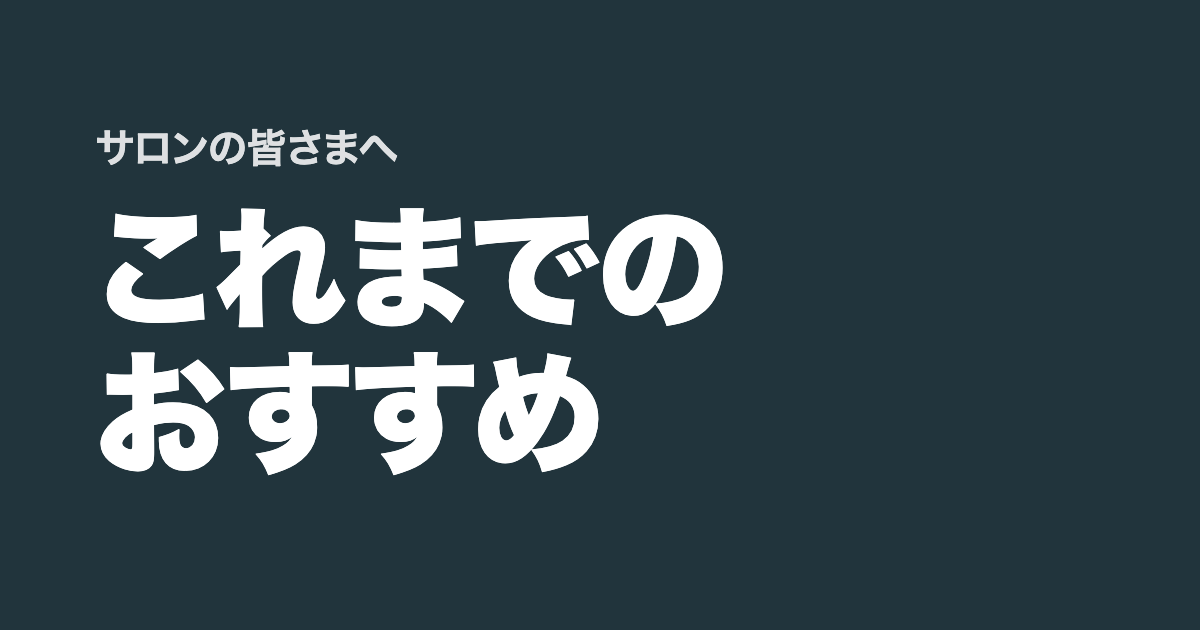
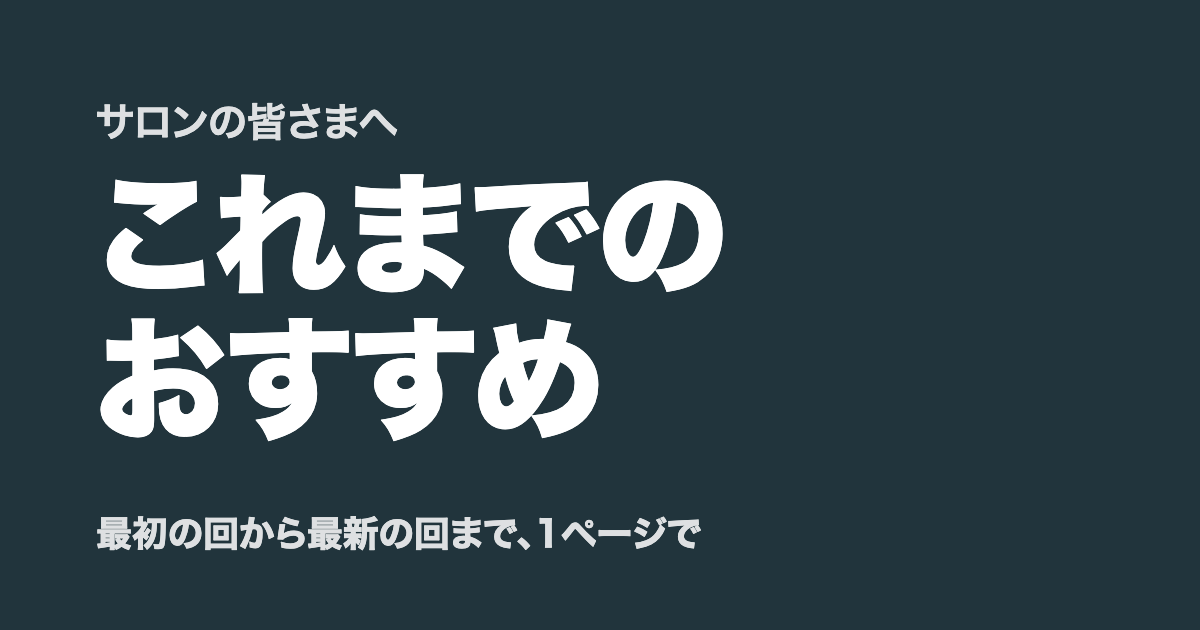
これまでのおすすめ：冒頭の意図・棚を表紙の縮小に・最新回を届いた順に

Changed region(s): [[0.0617, 0.1508, 0.6167, 0.754], [0.0617, 0.8143, 0.5858, 0.8746]]

diff --git a/osusume/index.html b/osusume/index.html
@@ -18,72 +18,85 @@
 html{background:var(--ground);color-scheme:light;scroll-behavior:smooth}
 @media (prefers-reduced-motion:reduce){html{scroll-behavior:auto}}
 body{word-break:auto-phrase;text-wrap:pretty;font-family:"Hiragino Sans","Hiragino Kaku Gothic ProN","Noto Sans JP",sans-serif;color:var(--ink);background:var(--ground);
- font-feature-settings:"palt";line-break:strict;-webkit-font-smoothing:antialiased;-webkit-text-size-adjust:100%}
+ font-size:15px;line-height:1.75;font-feature-settings:"palt";line-break:strict;-webkit-font-smoothing:antialiased;-webkit-text-size-adjust:100%}
+/* 字の段は6つ：13・15・17・24・44・104（11/21 世界的デザイナー） */
 .fb{font-family:Futura,"Futura PT",Jost,"Avenir Next",sans-serif;font-weight:700}
 .wrap{max-width:560px;margin:0 auto}
 .ln{display:block}
+.nw{white-space:nowrap}
 .vh{position:absolute;width:1px;height:1px;overflow:hidden;clip:rect(0 0 0 0);white-space:nowrap}
-header{background:var(--band);color:#fff;padding:28px 20px 28px}
+header{background:var(--band);color:#fff;padding:20px 20px 22px}
 header .to{font-size:15px;font-weight:600;letter-spacing:.04em;opacity:.85}
-header h1{font-size:44px;line-height:1.12;font-weight:800;letter-spacing:.01em;margin-top:10px}
-header .now{margin-top:22px;padding-top:18px;border-top:2px solid rgba(255,255,255,.28)}
-header .now b{display:block;font-size:18px;line-height:1.5;font-weight:800}
-header .now span{display:block;font-size:14px;line-height:1.6;opacity:.8;margin-top:4px}
-.shelf{display:flex;gap:12px;overflow-x:auto;padding:22px 20px 10px;scroll-snap-type:x mandatory;-webkit-overflow-scrolling:touch;scroll-padding-left:20px}
-.tl{flex:none;width:38%;text-decoration:none;color:var(--ink);scroll-snap-align:start;border:2px solid var(--band)}
-.tl.new{width:52%;border-color:var(--mark)}
-.tb{display:flex;align-items:flex-end;justify-content:space-between;background:var(--band);color:#fff;padding:8px 8px 6px 9px}
-.tl.new .tb{background:var(--mark)}
-.tbr{font-size:10.5px;font-weight:800;line-height:1.3;padding-bottom:4px}
-.tbn{font-size:40px;line-height:.86}
-.tl.new .tbn{font-size:56px}
-.td{display:block;font-size:13px;color:var(--sub);padding:8px 9px 0}
-.tt{display:block;font-size:13px;line-height:1.45;font-weight:800;padding:2px 9px 10px}
-.tl.new .tt{font-size:15.5px}
-.shelfnote{font-size:13px;color:var(--sub);padding:2px 20px 0}
-.issue{padding:44px 20px 8px}
+header h1{font-size:44px;line-height:1.12;font-weight:800;letter-spacing:.01em;margin-top:6px}
+header .now{margin-top:16px;padding-top:12px;border-top:2px solid rgba(255,255,255,.28);font-size:17px;line-height:1.5;font-weight:800}
+.intro{padding:20px 20px 0}
+.intro p+p{margin-top:10px}
+.intro b{font-weight:800}
+.shelf{display:flex;gap:12px;overflow-x:auto;padding:20px 20px 8px;scroll-snap-type:x mandatory;-webkit-overflow-scrolling:touch;scroll-padding-left:20px}
+.tl{flex:none;width:38%;text-decoration:none;color:var(--ink);scroll-snap-align:start}
+.tl.new{width:52%}
+.tl img{display:block;width:100%;height:auto;border:1px solid var(--panel)}
+.tl.new img{outline:3px solid var(--mark);outline-offset:-3px;border-color:var(--mark)}
+.tm{display:flex;align-items:baseline;gap:10px;margin-top:8px}
+.tn{font-size:24px;line-height:1;color:var(--band)}
+.tl.new .tn{color:var(--mark)}
+.td{font-size:13px;color:var(--sub)}
+.tt{display:block;font-size:13px;line-height:1.5;font-weight:800;margin-top:4px}
+.tl.new .tt{font-size:15px}
+.shelfnote{font-size:13px;color:var(--sub);padding:0 20px}
+.idx{list-style:none;margin:14px 20px 0;border-top:1px solid var(--panel)}
+.idx a{display:flex;gap:14px;align-items:baseline;padding:10px 0;border-bottom:1px solid var(--panel);color:var(--ink);text-decoration:none;font-size:13px}
+.idx .fb{color:var(--sub)}
+.yr{font-size:13px;letter-spacing:.2em;color:var(--sub);padding:40px 20px 0;border-bottom:1px solid var(--panel);margin:0 20px;padding-left:0;padding-bottom:6px}
+.issue{padding:36px 20px 8px}
 .head{display:flex;align-items:flex-end;gap:14px}
 .no{font-size:104px;line-height:.82;color:var(--band);letter-spacing:-.02em}
 .issue.new .no{color:var(--mark)}
 .meta{display:flex;flex-direction:column;gap:4px;padding-bottom:4px}
-.meta .d{font-size:20px;color:var(--sub)}
+.meta .d{font-size:17px;color:var(--sub)}
 .meta b{font-size:15px;font-weight:800}
-.what{font-size:15px;line-height:1.75;margin-top:14px}
-.old{font-size:13.5px;line-height:1.7;color:var(--sub);margin-top:8px}
-.imgs{margin:18px -20px 0}
-.imgs img{display:block;width:100%;height:auto}
-.imgs img+img{margin-top:10px}
-.issue h3{font-size:17px;font-weight:800;margin-top:24px}
-.issue ul{margin:10px 0 0 1.2em;font-size:15px;line-height:1.8}
-.issue li+li{margin-top:6px}
-.rei{background:var(--panel);margin:20px -20px 0;padding:20px}
+.what{margin-top:14px}
+.old{font-size:13px;line-height:1.7;color:var(--sub);margin-top:8px}
+.imgs{margin:28px 0 0}
+.imgs figcaption{font-size:13px;color:var(--sub);margin-bottom:8px}
+.imgs img{display:block;width:100%;height:auto;border:1px solid var(--panel)}
+.imgs img+img{margin-top:12px}
+.issue h3{font-size:17px;font-weight:800;margin-top:28px}
+.uses{list-style:none;margin-top:8px;border-bottom:1px solid var(--panel)}
+.uses li{padding:12px 0;border-top:1px solid var(--panel)}
+.rei{background:var(--panel);margin:24px -20px 0;padding:20px}
 .reih{font-size:15px;font-weight:800;margin-top:14px}
-.rei .reih{margin-top:0}
-.reit{font-size:15px;line-height:1.85;margin-top:10px}
-.nw{white-space:nowrap}
-.copy{display:block;width:100%;margin-top:16px;padding:15px;border:0;background:var(--band);color:#fff;font:inherit;font-size:16px;font-weight:800;cursor:pointer}
+.rei .reih{font-size:17px;margin-top:0}
+.reis{font-size:13px;color:var(--sub)}
+.reit{line-height:1.85;margin-top:10px}
+.copy{display:block;width:100%;margin-top:16px;padding:15px;border:0;background:var(--band);color:#fff;font:inherit;font-size:17px;font-weight:800;cursor:pointer}
 .copy.done{background:var(--mark)}
-.next{font-size:14px;line-height:1.7;margin-top:10px;font-weight:600}
-details.more{margin-top:20px;border-top:2px solid var(--band);border-bottom:2px solid var(--band)}
-details.more summary{font-size:16px;font-weight:800;padding:14px 0;cursor:pointer;list-style-position:inside}
+.next{margin-top:10px;font-weight:600}
+details.more{margin-top:24px;border-top:2px solid var(--band);border-bottom:2px solid var(--band)}
+details.more summary{display:flex;justify-content:space-between;align-items:center;font-size:17px;font-weight:800;padding:14px 0;cursor:pointer;list-style:none}
+details.more summary::-webkit-details-marker{display:none}
+details.more summary::after{content:"+";font-family:Futura,"Futura PT",Jost,sans-serif;font-weight:700;font-size:24px;line-height:1;color:var(--band)}
+details.more[open] summary::after{content:"\2212"}
 details.more[open]{padding-bottom:16px}
-.back{margin-top:22px;font-size:15px}
+details.more .uses{margin-top:0}
+.back{margin-top:22px}
 .back a{color:var(--band);font-weight:800;text-underline-offset:4px}
-.copy:focus-visible,.tl:focus-visible,summary:focus-visible,.back a:focus-visible{outline:3px solid var(--mark);outline-offset:3px}
+.copy:focus-visible,.tl:focus-visible,summary:focus-visible,.back a:focus-visible,.idx a:focus-visible{outline:3px solid var(--mark);outline-offset:3px}
 .help{padding:48px 20px 20px}
 .help h2{font-size:24px;font-weight:800}
 .help dl{margin-top:14px}
-.help dt{font-size:15px;font-weight:800;margin-top:16px}
-.help dd{font-size:15px;line-height:1.75;margin-top:2px}
-footer{padding:26px 20px 64px;font-size:15px;line-height:1.8}
+.help dt{font-weight:800;margin-top:16px}
+.help dd{margin-top:2px}
+footer{padding:26px 20px 64px}
 footer .by{font-size:13px;color:var(--sub);margin-top:14px}
 </style></head><body><div class="wrap">
 <header><p class="to">サロンの皆さまへ</p><h1><span class="ln">これまでの</span><span class="ln">おすすめ</span></h1>
-<p class="now"><b><span class="ln">11/20から、クーポンは</span><span class="ln">全カテゴリーに使えます。</span></b><span>第1回・第2回は当時の書き方です。</span></p></header>
-<nav class="shelf" id="shelf" aria-label="回の一覧"><a class="tl new" href="#no3"><span class="tb"><span class="tbr">今週のおすすめ</span><span class="tbn fb">03</span></span><span class="td fb">11.20</span><span class="tt"><span class="ln">ポケモンカードも、</span><span class="ln">どんどんご案内する</span></span></a><a class="tl" href="#no2"><span class="tb"><span class="tbr">今週のおすすめ</span><span class="tbn fb">02</span></span><span class="td fb">11.12</span><span class="tt"><span class="ln">ご自身でも、</span><span class="ln">クーポンを使ってみる</span></span></a><a class="tl" href="#no1"><span class="tb"><span class="tbr">今週のおすすめ</span><span class="tbn fb">01</span></span><span class="td fb">10.30</span><span class="tt"><span class="ln">来店後のお礼に、</span><span class="ln">QRを添える</span></span></a></nav><p class="shelfnote">押すと、その回に移ります。</p>
-<main><section class="issue new" id="no3"><div class="head"><span class="no fb">03</span><span class="meta"><span class="d fb">11.20</span><b>〈実例〉　施術中・来店後</b></span></div><h2 class="vh">ポケモンカードも、どんどんご案内する</h2><p class="what">全カテゴリーになったクーポンを、ポケモンカードやワンピースカードの話にもご案内する回です。</p><div class="rei"><p class="reih">お客さまへのお礼に貼る文例</p><p class="reit" id="rei3">本日はご来店いただきありがとうございました！<br>カットの内容が気に入っていただけたら嬉しいです！<br><br>あわせて、SNKRDUNK（スニダン）で使えるクーポンのご案内です（PR）！<br>スニーカーや服、ポケモンカードなど、<span class="nw">全カテゴリー</span>に使える最大5%OFF（割引上限5,000円）のクーポンを、下のQRまたはURLから受け取れますので、良ければご利用ください！<br>またお会いできるのを楽しみにしています！</p><button type="button" class="copy" data-target="rei3">文例をコピー</button><p class="next">貼ったあとに、QRまたはURLを続けて送ってください</p></div><div class="imgs"><img src="img/no3_1.gif" alt="今週のおすすめ　11.20　03　今日から、クーポンの対象が全カテゴリーになりました　ポケモンカードも、どんどんご案内する　1 話す｜ポケモンカードの話が出たら、クーポンが使えると一言　2 渡す｜登録時に発行したQRまたはURLを　3 貼る｜お礼のLINEには、下の新しい文例を　スニダン｜使える範囲と注意は、2枚目に" loading="eager" width="1080" height="1350"><img src="img/no3_2.png" alt="全カテゴリーで使えます　ポケモンカードやワンピースカードにも女性やお子さまにも、よりおすすめしやすく　美容師の皆さんもお使いいただけますぜひ、使ってみてください　気をつけること　コード｜これまでのクーポンが、そのまま使えます。コードは、口頭やSNSでお伝えしないでください（ご紹介として記録されなくなります）　対象｜ご自身のお買いものは、紹介インセンティブの対象になりません" loading="eager" width="1080" height="1350"></div><h3>使うときは</h3><ul><li>集めているお客さまや、そのご家族にも、どんどんご案内ください。お子さまのときは、保護者の方にご案内ください</li><li>お客さまにQRまたはURLをお渡しのときは「SODAの企画（PR）です」と一言お添えのうえ、「アプリの会員登録は、フォームと同じ電話番号で」とお伝えください</li><li>事実と違う説明や、無理なおすすめ、ご自身が出品した商品の押しつけは、しないでください</li><li>お礼の文例は、この回の文例（上）に替えてください</li><li>クーポンのコードは、口頭やSNSでお伝えしないでください（ご紹介として記録されなくなります）</li><li>気乗りしないご様子でしたら、そこでやめてください</li></ul><p class="back"><a href="#shelf">回の一覧へ戻る</a></p></section><section class="issue" id="no2"><div class="head"><span class="no fb">02</span><span class="meta"><span class="d fb">11.12</span><b>〈実例〉　美容師さんご自身</b></span></div><h2 class="vh">ご自身でも、クーポンを使ってみる</h2><p class="what">美容師さんご自身がクーポンを使ってみる回です。</p><p class="old">11/20から、クーポンは全カテゴリーに使えます。この回は当時の書き方です。</p><div class="imgs"><img src="img/no2_1.png" alt="今週のおすすめ　サロンの皆さまへ　11.12　ご自身でクーポンを取得・利用された美容師さんの方が、お客さまの購入が多い　ご自身でも、クーポンを使ってみる　お客さまと同じ流れを一度たどっておくと、聞かれたときにも、ご自身の言葉で答えられます。　1 取る｜登録時に発行したQRまたはURLから、クーポンを（ご自身のスマートフォンで、お客さまと同じ手順です）　2 使う｜服やスニーカー、バッグなどのお買いものに（最大5%OFF（割引上限5,000円））　3 渡す｜ご参考までに、ご家族やご友人に（QRまたはURLから使ってもらうのも問題ありません）　スニダン｜ご自身のお買いものは、紹介インセンティブ（3,000円）の対象になりません。" loading="lazy" width="1080" height="1350"></div><details class="more"><summary>使うときは</summary><ul><li>登録時に発行したQRまたはURLから、ご自身のスマートフォンで取得できます</li><li>クーポンはご自身でもお使いいただけますが、ご契約者ご本人・スタッフさまのお買いものは、紹介インセンティブの対象になりません</li><li>ご参考までに、ご家族やご友人にお渡しいただき、クーポンを使ってもらうのも、まったく問題ありません。ぜひ、リアルな体験をしてみてください</li><li>ご自身の画面とメールに出るクーポンのコードはどなたにもお伝えしないでください。QRまたはURLをお渡しください（ご紹介として記録されるように）</li><li>ご家族やご友人にも「SODAの企画（PR）です」と一言お添えのうえ、「アプリの会員登録は、フォームと同じ電話番号で」とお伝えください</li><li>気乗りしないご様子でしたら、そこでやめてください</li></ul></details><p class="back"><a href="#shelf">回の一覧へ戻る</a></p></section><section class="issue" id="no1"><div class="head"><span class="no fb">01</span><span class="meta"><span class="d fb">10.30</span><b>〈実例〉　来店後</b></span></div><h2 class="vh">来店後のお礼に、QRを添える</h2><p class="what">お礼のLINE・メールで使う回です。</p><p class="old">11/20から、クーポンは全カテゴリーに使えます。この回は当時の書き方です。</p><div class="imgs"><img src="img/no1_1.png" alt="今週のおすすめ　サロンの皆さまへ　10.30　お礼のLINEやメールに添えて、クーポンのご利用が増えたお店があります　来店後のお礼に、QRを添える　店ではお声がけしにくくても、お礼の連絡なら、お客さまが家でゆっくり見られます。　1 選ばず｜クーポンを使いそうな方かを選別せず（老若男女問わずお送りした方が、結果が出ています）　2 貼る｜いつものお礼のLINE・メールに、文例を（文例は、次のメッセージにあります）　3 添える｜登録時に発行したQRまたはURLを（送るだけで大丈夫です）　スニダン｜お客さまへの文例には「（PR）」の表示も入っているので、そのまま送れます。" loading="lazy" width="1080" height="1350"></div><details class="more"><summary>使うときは・当時の文例</summary><ul><li>クーポンを使いそうな方かを選別せず、老若男女問わず、いつものお礼の連絡に添えてください。その方が結果が出ています</li><li>文例は下にあります（PRの表示も入っています）。貼ったあとに、QRまたはURLを続けて送ってください</li><li>QRまたはURLは、登録時に発行したものです。クーポンのコードは送らず、QRまたはURLを送るだけで大丈夫です（ご紹介として記録されるように）</li><li>気乗りしないご様子でしたら、そこでやめてください</li></ul><p class="reih">当時の文例</p><p class="reit">本日はご来店いただきありがとうございました！<br>カットの内容が気に入っていただけたら嬉しいです！<br><br>あわせて、SNKRDUNK（スニダン）で使えるクーポンのご案内です（PR）！<br>服やスニーカー、バッグなどに使える最大5%OFF（割引上限5,000円）のクーポンを、下のQRまたはURLから受け取れますので、良ければご利用ください！<br>またお会いできるのを楽しみにしています！</p><p class="old">いまは第3回の新しい文例をお使いください。</p></details><p class="back"><a href="#shelf">回の一覧へ戻る</a></p></section></main>
-<section class="help"><h2>困ったときは</h2><dl><dt>お客さまに口でご案内するとき</dt><dd>「SODAの企画（PR）です」と一言お添えください。</dd><dt>店舗で切り出しにくい</dt><dd>店舗で言わなくても、お礼の連絡に添えるだけで大丈夫です（第1回）。</dd><dt>割引を聞かれた</dt><dd>「最大5%OFF（割引上限5,000円）です」とお伝えください。</dd><dt>鑑定を聞かれた</dt><dd>「本物かどうかを1点ずつ確かめてから発送します」とお伝えください。</dd><dt>鏡元に置く物が欲しい</dt><dd>担当にご相談ください。</dd></dl></section>
-<footer><p>困ったら、担当のLINEで一言ください。</p><p class="by">このご案内は、SNKRDUNK（スニダン）を運営する株式会社SODAからお送りしています。</p></footer>
+<p class="now"><span class="ln">11/20から、クーポンは</span><span class="ln">全カテゴリーに使えます。</span></p></header>
+<section class="intro"><p>「今週のおすすめ」は、お客さまにクーポンをご案内するときの場面と言い方を、1回に1つずつお送りしているものです。ご紹介いただいたお客さまのお買いものが確定したら、お客さま1名につき、ご契約いただいた方へ紹介インセンティブをお支払いします（同じお客さまにつき1回かぎり）。</p><p>回は新しい順に並べています。新しく加わった店舗の方も、<b>いちばん上の最新の回</b>からご覧ください。最新の回の文例は、ボタンでコピーできます。気乗りしないご様子のお客さまには、そこでご案内をやめてください。</p></section>
+<nav class="shelf" id="shelf" aria-label="回の一覧"><a class="tl new" href="#no3"><img src="img/th3.jpg" alt="" width="432" height="540"><span class="tm"><span class="tn fb">03</span><span class="td fb">11.20</span></span><span class="tt"><span class="ln">ポケモンカードも、</span><span class="ln">どんどんご案内する</span></span></a><a class="tl" href="#no2"><img src="img/th2.jpg" alt="" width="432" height="540"><span class="tm"><span class="tn fb">02</span><span class="td fb">11.12</span></span><span class="tt"><span class="ln">ご自身でも、</span><span class="ln">クーポンを使ってみる</span></span></a><a class="tl" href="#no1"><img src="img/th1.jpg" alt="" width="432" height="540"><span class="tm"><span class="tn fb">01</span><span class="td fb">10.30</span></span><span class="tt"><span class="ln">来店後のお礼に、</span><span class="ln">QRを添える</span></span></a></nav><p class="shelfnote">押すと、その回に移ります。</p>
+<main><p class="yr fb">2026</p><section class="issue new" id="no3"><div class="head"><span class="no fb">03</span><span class="meta"><span class="d fb">11.20</span><b>〈実例〉　施術中・来店後</b></span></div><h2 class="vh">ポケモンカードも、どんどんご案内する</h2><p class="what">全カテゴリーになったクーポンを、ポケモンカードやワンピースカードの話にもご案内する回です。</p><figure class="imgs"><figcaption>LINEで届いた画像</figcaption><img src="img/no3_1.gif" alt="今週のおすすめ　11.20　03　今日から、クーポンの対象が全カテゴリーになりました　ポケモンカードも、どんどんご案内する　1 話す｜ポケモンカードの話が出たら、クーポンが使えると一言　2 渡す｜登録時に発行したQRまたはURLを　3 貼る｜お礼のLINEには、下の新しい文例を　スニダン｜使える範囲と注意は、2枚目に" loading="eager" width="1080" height="1350"><img src="img/no3_2.png" alt="全カテゴリーで使えます　ポケモンカードやワンピースカードにも女性やお子さまにも、よりおすすめしやすく　美容師の皆さんもお使いいただけますぜひ、使ってみてください　気をつけること　コード｜これまでのクーポンが、そのまま使えます。コードは、口頭やSNSでお伝えしないでください（ご紹介として記録されなくなります）　対象｜ご自身のお買いものは、紹介インセンティブの対象になりません" loading="eager" width="1080" height="1350"></figure><div class="rei"><p class="reih">お客さまへのお礼に貼る、新しい文例</p><p class="reis">（これまでの文例から替えてください）</p><p class="reit" id="rei3">本日はご来店いただきありがとうございました！<br>カットの内容が気に入っていただけたら嬉しいです！<br><br>あわせて、SNKRDUNK（スニダン）で使えるクーポンのご案内です（PR）！<br>スニーカーや服、ポケモンカードなど、<span class="nw">全カテゴリー</span>に使える最大5%OFF（割引上限5,000円）のクーポンを、下のQRまたはURLから受け取れますので、良ければご利用ください！<br>またお会いできるのを楽しみにしています！</p><button type="button" class="copy" data-target="rei3">文例をコピー</button><p class="next">貼ったあとに、QRまたはURLを続けて送ってください。見当たらなければ、担当のLINEで一言ください。</p></div><h3>使うときは</h3><ul class="uses"><li>気乗りしないご様子でしたら、そこでやめてください</li><li>お客さまにQRまたはURLをお渡しのときは「SODAの企画（PR）です」と一言お添えのうえ、「アプリの会員登録は、フォームと同じ電話番号で」とお伝えください</li><li>事実と違う説明や、無理なおすすめ、ご自身が出品した商品の押しつけは、しないでください</li><li>集めているお客さまや、そのご家族にも、どんどんご案内ください。お子さまのときは、<span class=nw>保護者の方</span>にご案内ください</li></ul><p class="back"><a href="#shelf">回の一覧へ戻る</a></p></section><section class="issue" id="no2"><div class="head"><span class="no fb">02</span><span class="meta"><span class="d fb">11.12</span><b>〈実例〉　美容師さんご自身</b></span></div><h2 class="vh">ご自身でも、クーポンを使ってみる</h2><p class="what">美容師さんご自身がクーポンを使ってみる回です。</p><p class="old">11/20から、クーポンは全カテゴリーに使えます。この回は当時の書き方です。</p><figure class="imgs"><figcaption>LINEで届いた画像</figcaption><img src="img/no2_1.png" alt="今週のおすすめ　サロンの皆さまへ　11.12　ご自身でクーポンを取得・利用された美容師さんの方が、お客さまの購入が多い　ご自身でも、クーポンを使ってみる　お客さまと同じ流れを一度たどっておくと、聞かれたときにも、ご自身の言葉で答えられます。　1 取る｜登録時に発行したQRまたはURLから、クーポンを（ご自身のスマートフォンで、お客さまと同じ手順です）　2 使う｜服やスニーカー、バッグなどのお買いものに（最大5%OFF（割引上限5,000円））　3 渡す｜ご参考までに、ご家族やご友人に（QRまたはURLから使ってもらうのも問題ありません）　スニダン｜ご自身のお買いものは、紹介インセンティブ（3,000円）の対象になりません。" loading="lazy" width="1080" height="1350"></figure><details class="more"><summary><span>使うときは</span></summary><ul class="uses"><li>登録時に発行したQRまたはURLから、ご自身のスマートフォンで取得できます</li><li>クーポンはご自身でもお使いいただけますが、ご契約者ご本人・スタッフさまのお買いものは、紹介インセンティブの対象になりません</li><li>ご参考までに、ご家族やご友人にお渡しいただき、クーポンを使ってもらうのも、まったく問題ありません。ぜひ、リアルな体験をしてみてください</li><li>ご自身の画面とメールに出るクーポンのコードはどなたにもお伝えしないでください。QRまたはURLをお渡しください（ご紹介として記録されるように）</li><li>ご家族やご友人にも「SODAの企画（PR）です」と一言お添えのうえ、「アプリの会員登録は、フォームと同じ電話番号で」とお伝えください</li><li>気乗りしないご様子でしたら、そこでやめてください</li></ul></details><p class="back"><a href="#shelf">回の一覧へ戻る</a></p></section><section class="issue" id="no1"><div class="head"><span class="no fb">01</span><span class="meta"><span class="d fb">10.30</span><b>〈実例〉　来店後</b></span></div><h2 class="vh">来店後のお礼に、QRを添える</h2><p class="what">お礼のLINE・メールで使う回です。</p><p class="old">11/20から、クーポンは全カテゴリーに使えます。この回は当時の書き方です。</p><figure class="imgs"><figcaption>LINEで届いた画像</figcaption><img src="img/no1_1.png" alt="今週のおすすめ　サロンの皆さまへ　10.30　お礼のLINEやメールに添えて、クーポンのご利用が増えたお店があります　来店後のお礼に、QRを添える　店ではお声がけしにくくても、お礼の連絡なら、お客さまが家でゆっくり見られます。　1 選ばず｜クーポンを使いそうな方かを選別せず（老若男女問わずお送りした方が、結果が出ています）　2 貼る｜いつものお礼のLINE・メールに、文例を（文例は、次のメッセージにあります）　3 添える｜登録時に発行したQRまたはURLを（送るだけで大丈夫です）　スニダン｜お客さまへの文例には「（PR）」の表示も入っているので、そのまま送れます。" loading="lazy" width="1080" height="1350"></figure><details class="more"><summary><span>使うときは・当時の文例</span></summary><ul class="uses"><li>クーポンを使いそうな方かを選別せず、老若男女問わず、いつものお礼の連絡に添えてください。その方が結果が出ています</li><li>文例は下にあります（PRの表示も入っています）。貼ったあとに、QRまたはURLを続けて送ってください</li><li>QRまたはURLは、登録時に発行したものです。クーポンのコードは送らず、QRまたはURLを送るだけで大丈夫です（ご紹介として記録されるように）</li><li>気乗りしないご様子でしたら、そこでやめてください</li></ul><p class="reih">当時の文例</p><p class="reit">本日はご来店いただきありがとうございました！<br>カットの内容が気に入っていただけたら嬉しいです！<br><br>あわせて、SNKRDUNK（スニダン）で使えるクーポンのご案内です（PR）！<br>服やスニーカー、バッグなどに使える最大5%OFF（割引上限5,000円）のクーポンを、下のQRまたはURLから受け取れますので、良ければご利用ください！<br>またお会いできるのを楽しみにしています！</p><p class="old">いまは第3回の新しい文例をお使いください。</p></details><p class="back"><a href="#shelf">回の一覧へ戻る</a></p></section></main>
+<section class="help"><h2>困ったときは</h2><dl><dt>お客さまに口でご案内するとき</dt><dd>「SODAの企画（PR）です」と一言お添えください。</dd><dt>店舗で切り出しにくい</dt><dd>店舗で言わなくても、お礼の連絡に添えるだけで大丈夫です（第1回）。</dd><dt>割引を聞かれた</dt><dd>「最大5%OFF（割引上限5,000円）です」とお伝えください。</dd><dt>鑑定を聞かれた</dt><dd>「本物かどうかを1点ずつ確かめてから発送します」とお伝えください。</dd><dt>鏡の前に置く物が欲しい</dt><dd>担当にご相談ください。</dd></dl></section>
+<footer><p>困ったら、担当のLINEで一言ください。</p><p class="by">このご案内は、SNKRDUNK（スニダン）を運営する<span class="nw">株式会社SODA</span>からお送りしています。</p></footer>
 </div><script>
 document.querySelectorAll('.copy').forEach(b=>b.addEventListener('click',async()=>{
  const t=document.getElementById(b.dataset.target).innerText;let ok=false;
